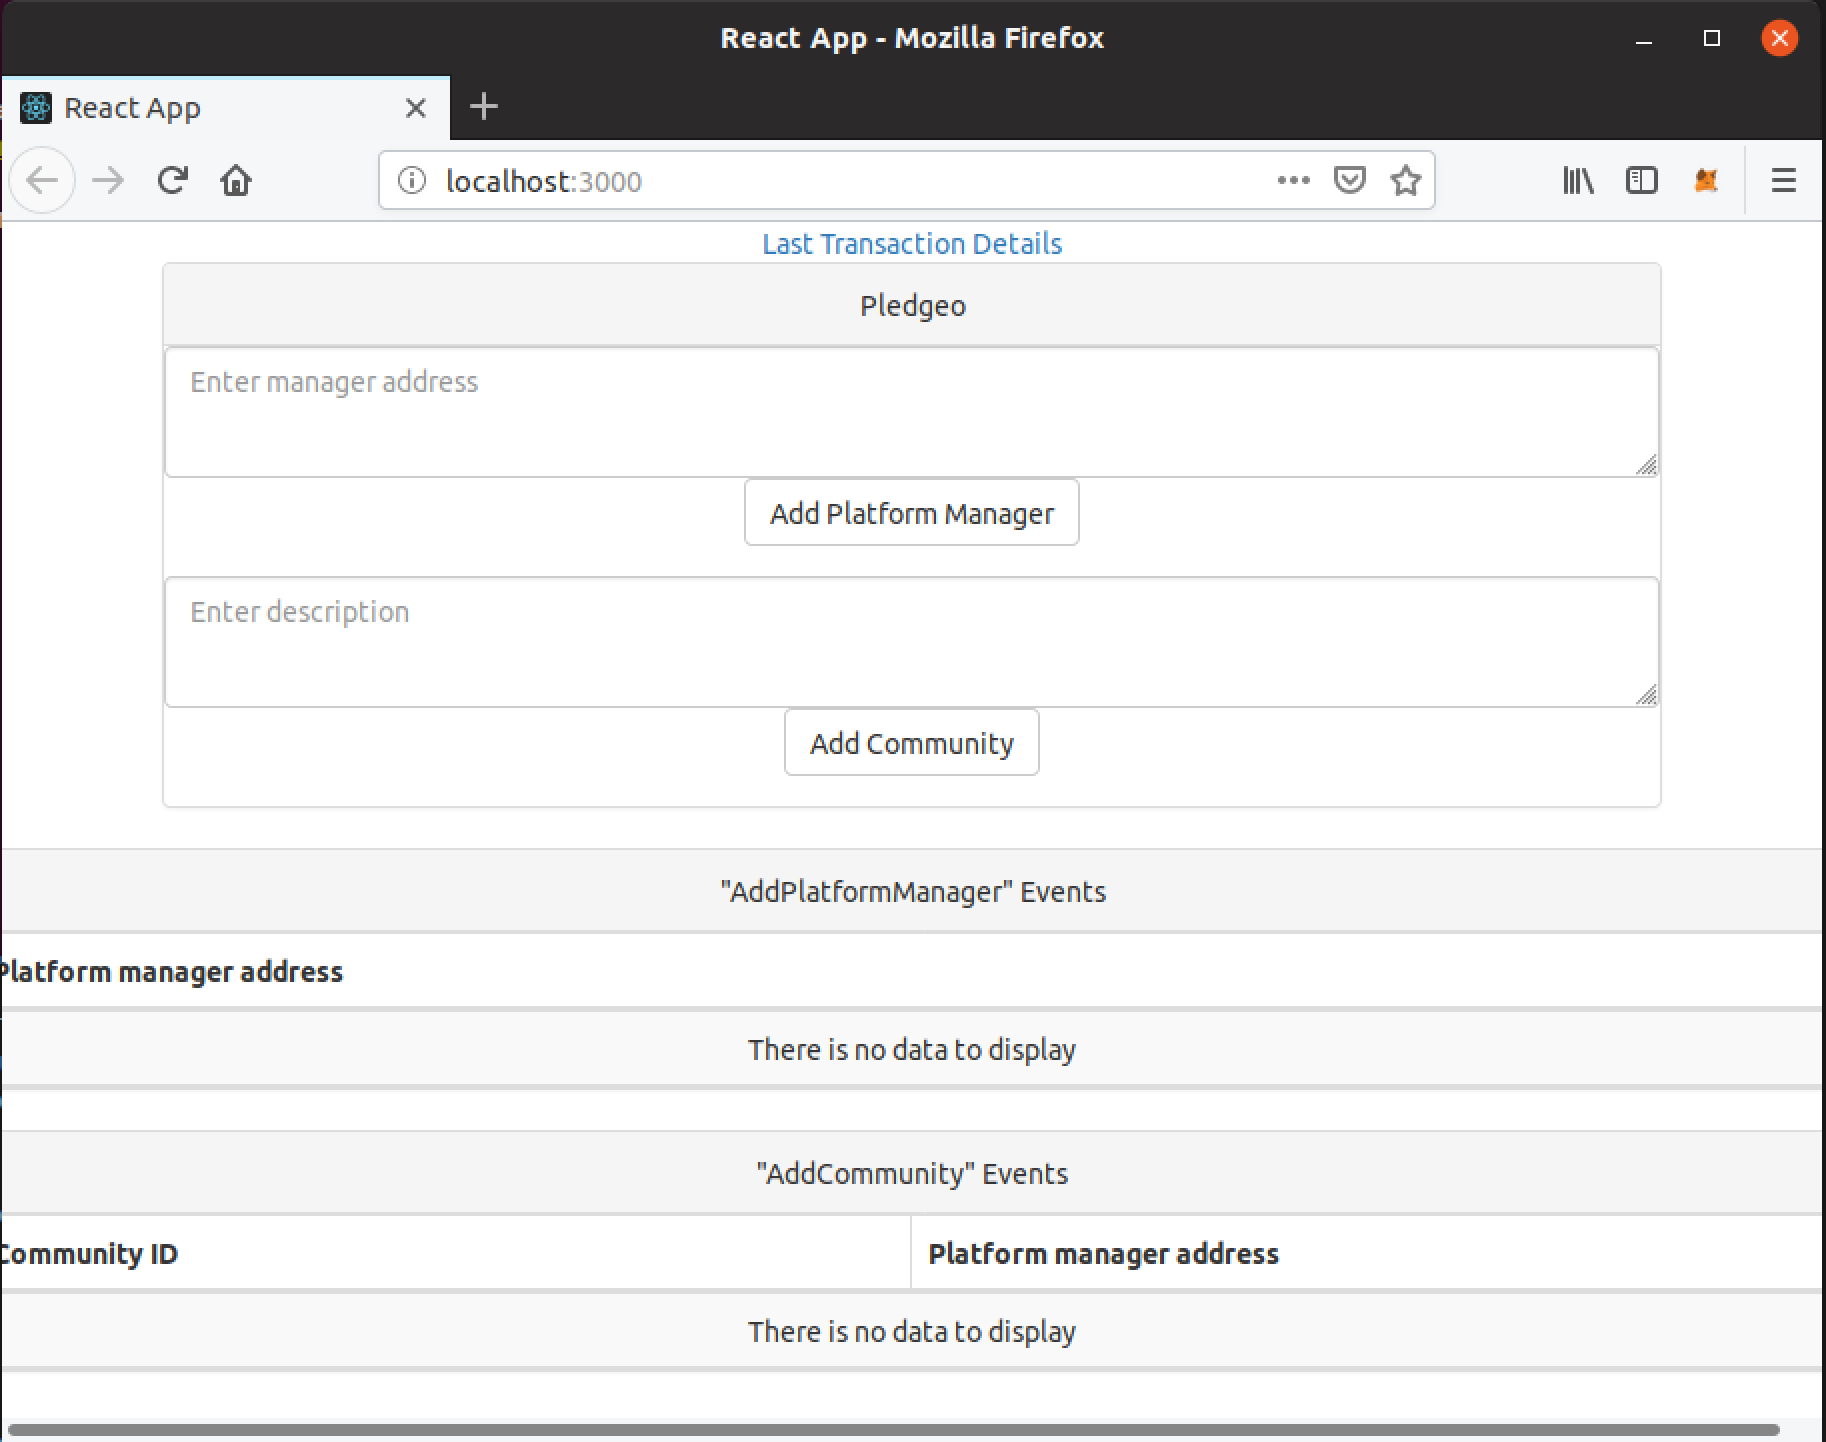
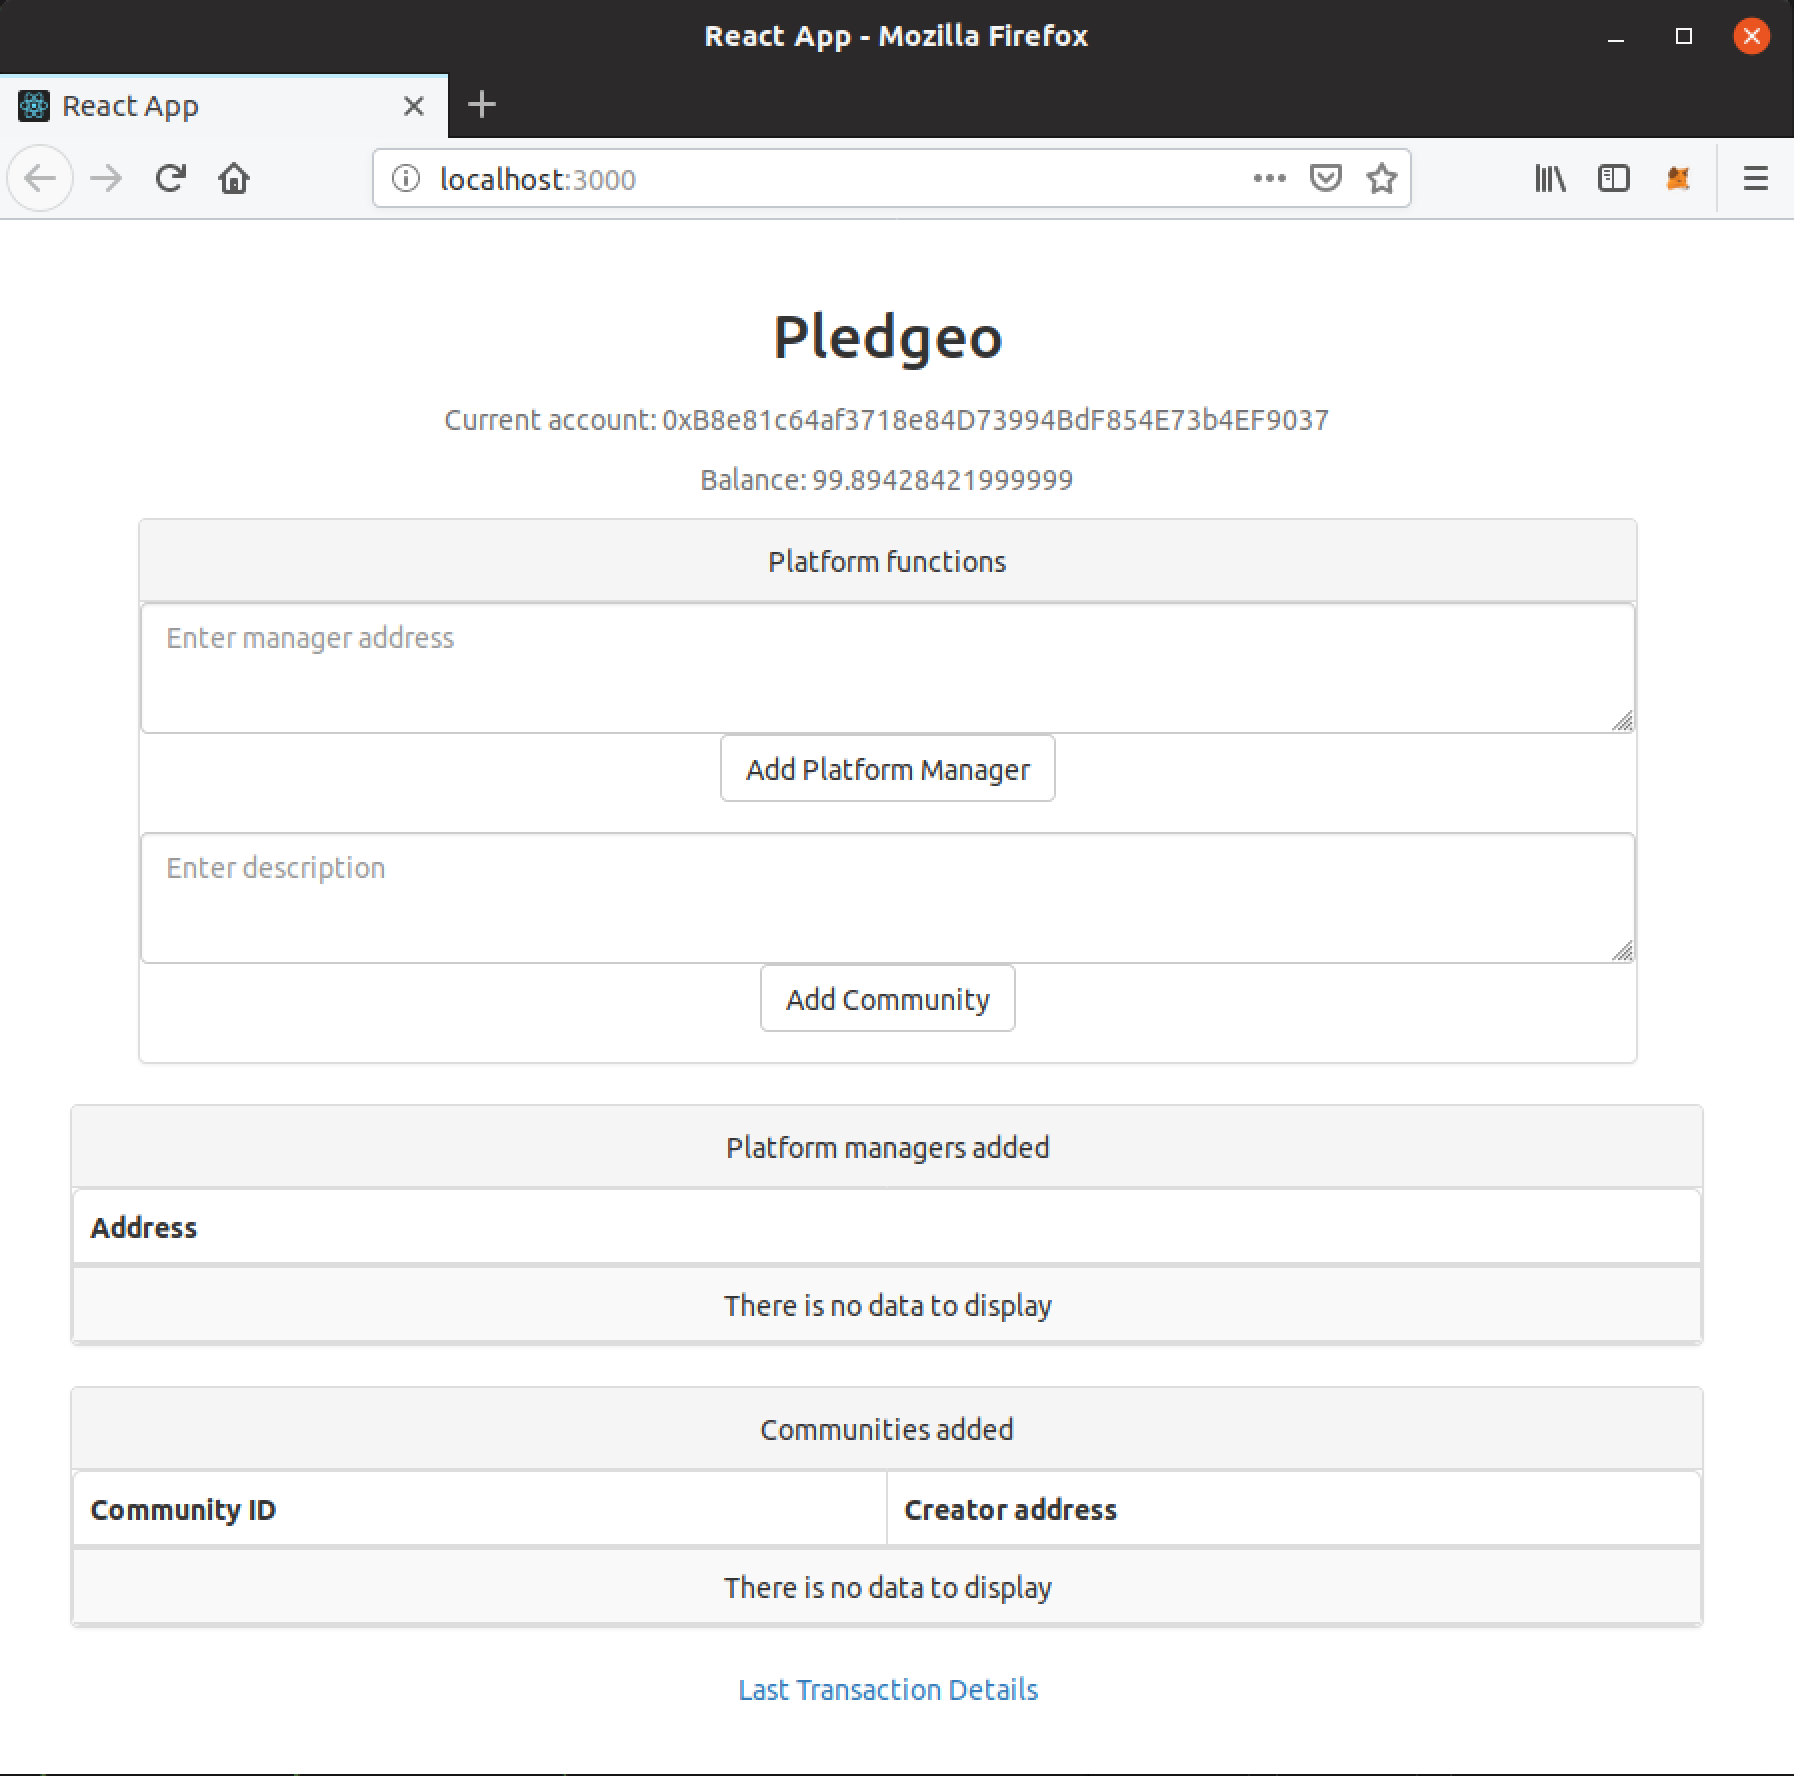
react app improvements

diff --git a/client/src/App.js b/client/src/App.js
@@ -8,7 +8,7 @@ import Button from 'react-bootstrap/lib/Button';
 import Form from 'react-bootstrap/lib/Form';
 import FormGroup from 'react-bootstrap/lib/FormGroup';
 import FormControl from 'react-bootstrap/lib/FormControl';
-// import HelpBlock from 'react-bootstrap/lib/HelpBlock';
+import HelpBlock from 'react-bootstrap/lib/HelpBlock';
 import Grid from 'react-bootstrap/lib/Grid';
 import Row from 'react-bootstrap/lib/Row';
 import Panel from 'react-bootstrap/lib/Panel';
@@ -33,6 +33,7 @@ class App extends Component {
       etherscanLink: "https://rinkeby.etherscan.io",
       contractOwner: null,
       account: null,
+      balance: null,
       web3: null
     }
     this.handleAddPlatformManager = this.handleAddPlatformManager.bind(this)
@@ -44,10 +45,13 @@ class App extends Component {
   componentDidMount = async () => {
     try {
       // Get network provider and web3 instance.
-      const web3 = await getWeb3();
+      var web3 = await getWeb3();
 
-      // Use web3 to get the user's accounts.
+      // Use web3 to get the user's accounts
       const accounts = await web3.eth.getAccounts();
+      const account = accounts[0];
+      var balance = await web3.eth.getBalance(accounts[0]);
+      balance = balance/10**18;
 
       // Get the contract instance.
       const networkId = await web3.eth.net.getId();
@@ -59,7 +63,7 @@ class App extends Component {
 
       // Set web3, accounts, and contract to the state, and then proceed with an
       // example of interacting with the contract's methods.
-      this.setState({ pledgeoInstance: instance, web3: web3, contractOwner: accounts[0], account: accounts[1]});
+      this.setState({ pledgeoInstance: instance, web3: web3, account: account, balance: balance});
       this.addEventListener(this)
     }
     catch (error) {
@@ -71,7 +75,7 @@ class App extends Component {
     }
   };
 
-  // Handle form data change
+  // Handle form data change 
   handleChangeAddPlatformManager(event) {
       switch(event.target.name) {
         case "managerAddress":
@@ -80,8 +84,8 @@ class App extends Component {
       }
   }
 
-    // Handle form data change
-    handleChangeAddCommunity(event) {
+  // Handle form data change
+  handleChangeAddCommunity(event) {
       switch(event.target.name) {
         case "communityDescription":
               this.setState({"communityDescription": event.target.value})
@@ -93,7 +97,7 @@ class App extends Component {
   async handleAddPlatformManager(event) {
     if (typeof this.state.pledgeoInstance !== 'undefined') {
       event.preventDefault();
-      let result = await this.state.pledgeoInstance.methods.addPlatformManager(this.state.managerAddress).send({from: this.state.contractOwner})
+      let result = await this.state.pledgeoInstance.methods.addPlatformManager(this.state.managerAddress).send({from: this.state.account})
       this.setLastTransactionDetails(result)
     }
   }
@@ -142,13 +146,15 @@ class App extends Component {
     }
     return (
       <div className="App">
+        <h2>Pledgeo</h2>
         <Grid>
           <Row>
-            <a href={this.state.etherscanLink} target="_blank">Last Transaction Details</a>
+            <HelpBlock>Current account: {this.state.account}</HelpBlock>
+            <HelpBlock>Balance: {this.state.balance}</HelpBlock>
           </Row>
           <Row>
             <Panel>
-              <Panel.Heading>Pledgeo</Panel.Heading>
+              <Panel.Heading>Platform functions</Panel.Heading>
               <Form onSubmit={this.handleAddPlatformManager}>
                 <FormGroup
                   controlId="fromCreatePlatformManager"
@@ -182,20 +188,23 @@ class App extends Component {
         </Grid>
         <Row>
           <Panel>
-            <Panel.Heading>"AddPlatformManager" Events</Panel.Heading>
+            <Panel.Heading>Platform managers added</Panel.Heading>
             <BootstrapTable data={this.state.platformManagers} striped hover>
-              <TableHeaderColumn isKey dataField='manager'>Platform manager address</TableHeaderColumn>
+              <TableHeaderColumn isKey dataField='manager'>Address</TableHeaderColumn>
             </BootstrapTable>
           </Panel>
         </Row>
         <Row>
           <Panel>
-            <Panel.Heading>"AddCommunity" Events</Panel.Heading>
+            <Panel.Heading>Communities added</Panel.Heading>
             <BootstrapTable data={this.state.communities} striped hover>
               <TableHeaderColumn isKey dataField='community_id'>Community ID</TableHeaderColumn>
-              <TableHeaderColumn dataField='manager'>Platform manager address</TableHeaderColumn>
+              <TableHeaderColumn dataField='manager'>Creator address</TableHeaderColumn>
             </BootstrapTable>
           </Panel>
+        </Row>
+        <Row>
+          <a href={this.state.etherscanLink} target="_blank">Last Transaction Details</a>
         </Row>
       </div>
     );

diff --git a/test/pledgeo.test.js b/test/pledgeo.test.js
@@ -304,10 +304,4 @@ contract('Pledgeo', function(accounts) {
         assert.equal(eventEmittedTx1, true, 'joining an event should emit a JoinEvent event')
         assert.equal(result1.nbOfParticipants, 2, 'the value of the mapping events for the key eventId and parameter nb_of_participant should be 2')
     })
-
-    it("should approve an event with the provided parameters and the proper require restrictions", async () => {
-        let instance = await Pledgeo.deployed()
-
-    })
-
 });

diff --git a/client/src/index.css b/client/src/index.css
@@ -1,6 +1,12 @@
 body {
-  margin: 0;
-  padding: 0;
+  margin-top: 1px;
+  margin-bottom: 1px;
+  margin-left: 30px;
+  margin-right: 30px;
+  padding-top: 20px;
+  padding-right: 30px;
+  padding-bottom: 30px;
+  padding-left: 20px;
   font-family: -apple-system, BlinkMacSystemFont, "Segoe UI", "Roboto", "Oxygen",
     "Ubuntu", "Cantarell", "Fira Sans", "Droid Sans", "Helvetica Neue",
     sans-serif;

diff --git a/client/src/utils/getWeb3.js b/client/src/utils/getWeb3.js
@@ -7,6 +7,7 @@ const getWeb3 = () =>
       // Modern dapp browsers...
       if (window.ethereum) {
         const web3 = new Web3(window.ethereum);
+
         try {
           // Request account access if needed
           await window.ethereum.enable();
